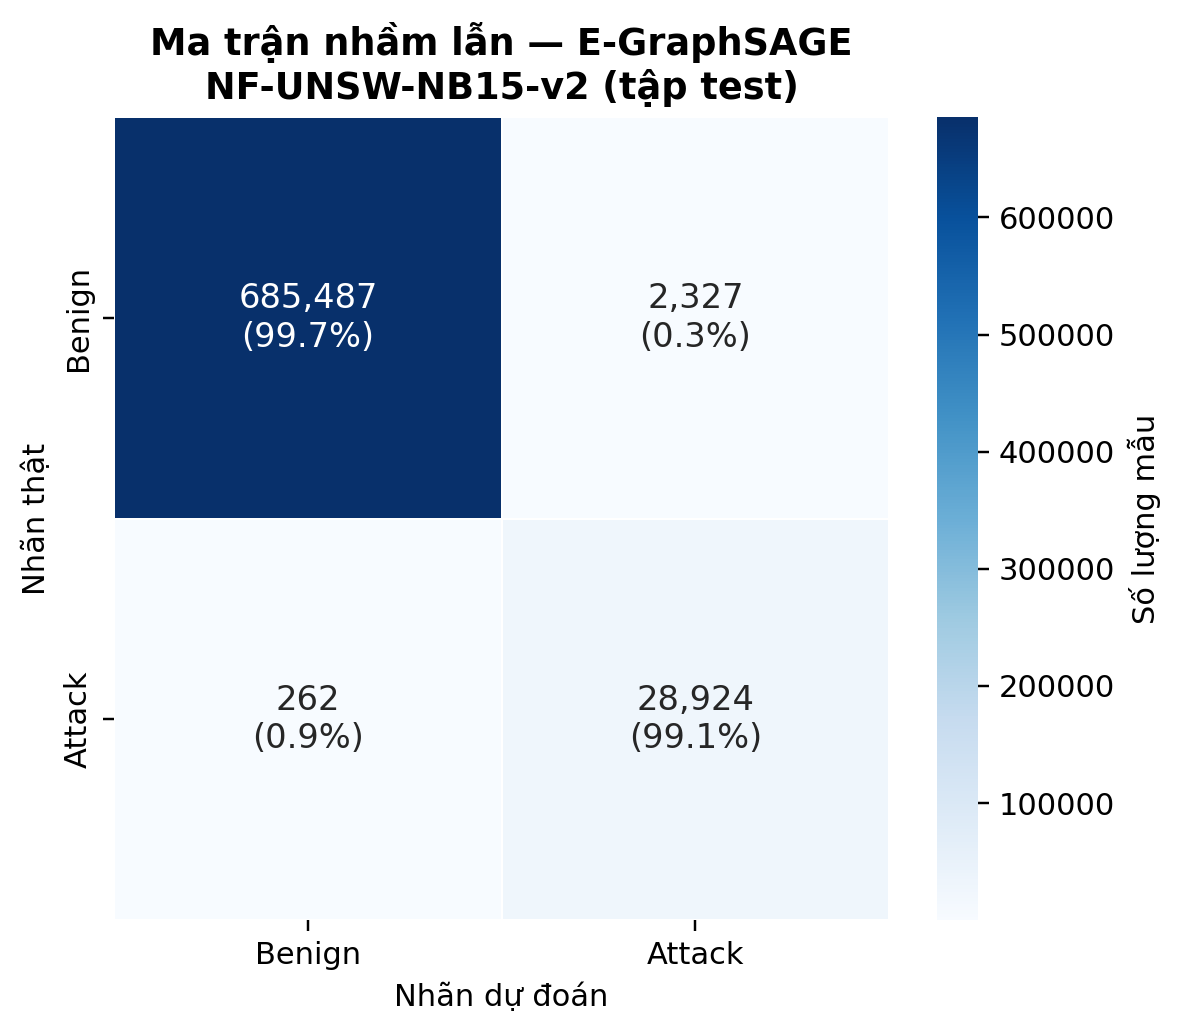
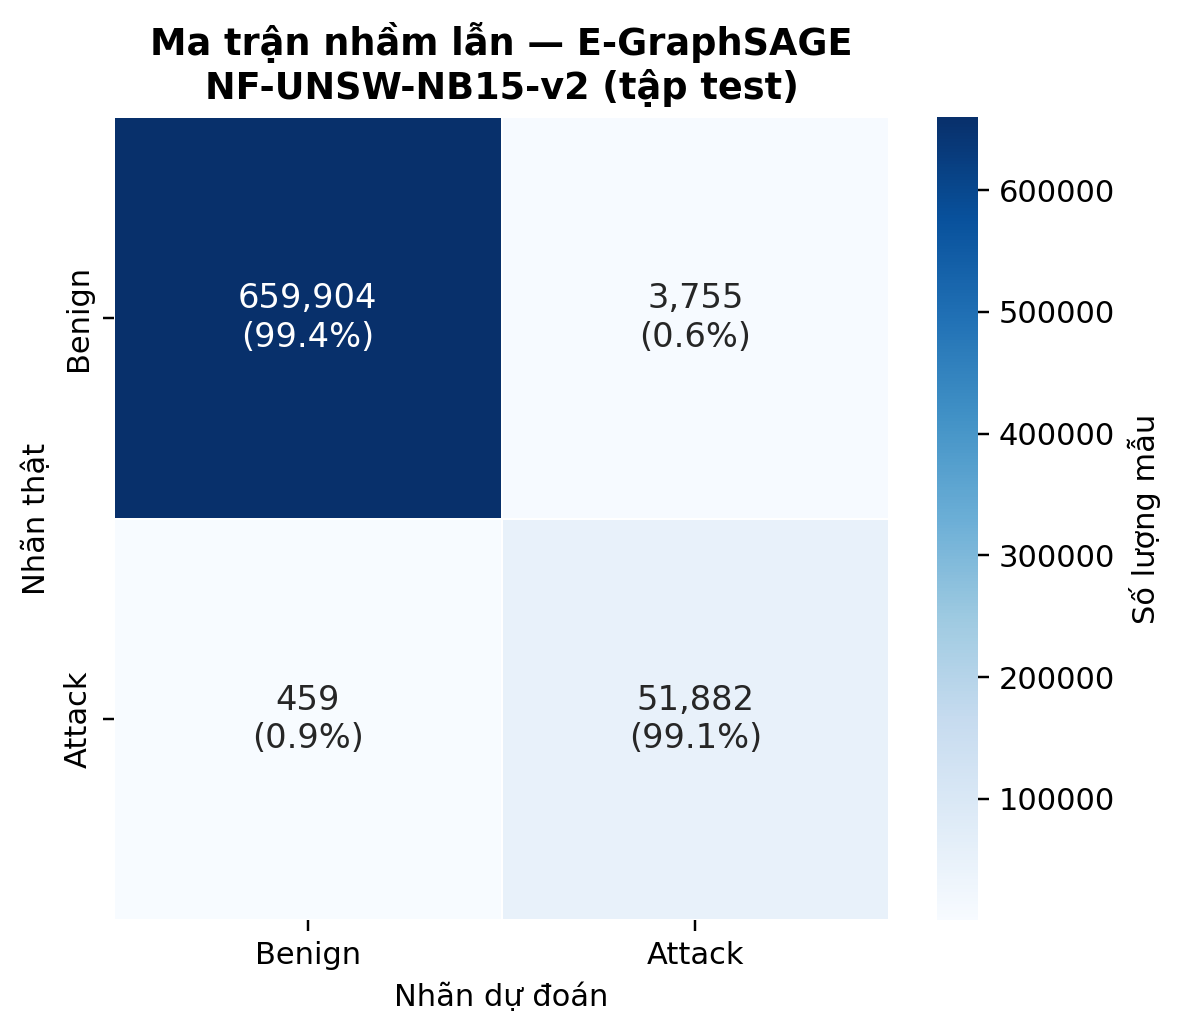
Cap nhat ket qua TN1+TN2 sau khi sua loi ro ri du lieu + train lai GraphSAGE
- Train lai GraphSAGE tu dau (ca 2 bo) tren du lieu da sua loi ro ri (xem commit truoc)
- Chay lai TN1 (evaluate_test.py) + TN2 (evaluate_cross_dataset.py) voi model moi
- Phat hien quan trong: ket qua GraphSAGE gan nhu KHONG DOI so voi truoc khi sua loi (TN1:
  chenh <0.002; TN2: giam nhe, khong tang) -- xac nhan loi ro ri tuy co that nhung khong
  thoi phong ket qua dang ke, tang do tin cay cho toan bo ket luan nghien cuu
- Cap nhat toan bo bang so lieu trong docs/decisions.md, docs/phases/phase3_model_training.md,
  docs/graphsage/03_ket_qua.md (tai lieu sach dung viet bao cao -- thay truc tiep so lieu cu)
- Sinh lai report_figures/ (tn1_f1_comparison, confusion_matrix x2, tn2_heatmap) voi so lieu moi

diff --git a/scripts/generate_report_figures.py b/scripts/generate_report_figures.py
@@ -164,14 +164,14 @@ def fig3_tn2_heatmap():
 
     f1_data = np.array(
         [
-            [0.4899, 0.5065, 0.4698],
-            [0.4465, 0.4701, 0.3502],
+            [0.4899, 0.5065, 0.4436],
+            [0.4465, 0.4701, 0.3398],
         ]
     )
     mcc_data = np.array(
         [
-            [0.0000, 0.1080, -0.0577],
-            [-0.1056, -0.0329, -0.2430],
+            [0.0000, 0.1080, -0.1082],
+            [-0.1056, -0.0329, -0.2753],
         ]
     )
 

diff --git a/docs/graphsage/03_ket_qua.md b/docs/graphsage/03_ket_qua.md
@@ -19,13 +19,15 @@ Tính đủ 6 chỉ số bằng `src/models/metrics.py` (`sklearn.metrics`):
 
 **Trả lời RQ1.** Script: `src/models/evaluate_test.py` — nạp lại model đã train xong, chạy suy luận **đúng 1 lần** trên tập test (chưa từng dùng để train/chọn checkpoint).
 
+**Lưu ý phương pháp luận (đã kiểm tra và sửa):** phát hiện + sửa 1 lỗi rò rỉ dữ liệu trong bước dựng đồ thị (cửa sổ trượt chồng lấp 50% từng bị chia ngẫu nhiên vào train/test, đo được 46,2% cặp cửa sổ liền kề bị ảnh hưởng) — đã sửa (chia theo khối liên tục theo thời gian), train lại toàn bộ, và **kiểm chứng thực tế xác nhận việc sửa lỗi không làm thay đổi đáng kể kết quả** (chênh lệch F1-macro trước/sau sửa: CSE-CIC 0,0001; UNSW-NB15 nhích lên 0,0013) — tăng độ tin cậy cho số liệu dưới đây. Chi tiết đầy đủ: `docs/decisions.md` mục 2026-07-31/2026-08-02.
+
 ### CSE-CIC-IDS2018-v2
 
 | Model | Accuracy | Precision | Recall | **F1-macro** | AUC-ROC | MCC |
 |---|---|---|---|---|---|---|
 | Random Forest | 0.9940 | 0.9879 | 0.9832 | 0.9856 | 0.9862 | 0.9711 |
 | XGBoost | 0.9959 | **0.9975** | 0.9829 | **0.9901** | **0.9931** | **0.9804** |
-| **E-GraphSAGE** | 0.9950 | 0.9969 | 0.9795 | 0.9880 | 0.9888 | 0.9763 |
+| **E-GraphSAGE** | 0.9950 | 0.9969 | 0.9793 | 0.9879 | 0.9888 | 0.9760 |
 
 ### UNSW-NB15-v2
 
@@ -33,13 +35,13 @@ Tính đủ 6 chỉ số bằng `src/models/metrics.py` (`sklearn.metrics`):
 |---|---|---|---|---|---|---|
 | Random Forest | 0.9977 | 0.9835 | 0.9867 | **0.9851** | 0.9995 | **0.9702** |
 | XGBoost | 0.9975 | 0.9798 | 0.9878 | 0.9838 | **0.9998** | 0.9676 |
-| **E-GraphSAGE** | 0.9964 | 0.9626 | **0.9938** | 0.9776 | 0.9994 | 0.9559 |
+| **E-GraphSAGE** | 0.9941 | 0.9659 | **0.9928** | 0.9789 | 0.9991 | 0.9583 |
 
 ### Nhận xét chính
 
-1. **Xếp hạng:** CSE-CIC → XGBoost > E-GraphSAGE > RF. UNSW-NB15 → RF > XGBoost > E-GraphSAGE. Chênh lệch F1-macro giữa E-GraphSAGE và baseline tốt nhất chỉ **0.006–0.02** — không đáng kể.
-2. **Val và test gần như giống hệt nhau** (chênh lệch ≤ 0.001–0.0002) — chứng minh việc chọn checkpoint theo tập val không bị overfit lên tập val, kết quả tổng quát hoá tốt sang dữ liệu hoàn toàn chưa từng thấy.
-3. **E-GraphSAGE đánh đổi Precision lấy Recall ở UNSW-NB15:** đạt Recall cao nhất (0.9938) trong 3 model — bắt được nhiều tấn công thật hơn, đổi lại báo động nhầm nhiều hơn 1 chút (Precision 0.9626, thấp nhất). Đây là điểm mạnh đáng nêu, vì Recall cao quan trọng hơn trong bối cảnh an ninh mạng.
+1. **Xếp hạng:** CSE-CIC → XGBoost > E-GraphSAGE > RF. UNSW-NB15 → RF > XGBoost > E-GraphSAGE. Chênh lệch F1-macro giữa E-GraphSAGE và baseline tốt nhất chỉ **0.005–0.02** — không đáng kể.
+2. **Val và test gần như giống hệt nhau** (chênh lệch ≤ 0.001) — chứng minh việc chọn checkpoint theo tập val không bị overfit lên tập val, kết quả tổng quát hoá tốt sang dữ liệu hoàn toàn chưa từng thấy.
+3. **E-GraphSAGE đánh đổi Precision lấy Recall ở UNSW-NB15:** đạt Recall cao nhất (0.9928) trong 3 model — bắt được nhiều tấn công thật hơn, đổi lại báo động nhầm nhiều hơn 1 chút (Precision 0.9659, thấp nhất). Đây là điểm mạnh đáng nêu, vì Recall cao quan trọng hơn trong bối cảnh an ninh mạng.
 
 **Kết luận RQ1:** E-GraphSAGE đạt hiệu quả **tương đương, cạnh tranh được** với ML truyền thống — không vượt trội nhưng cũng không thua kém đáng kể.
 
@@ -55,7 +57,7 @@ Tính đủ 6 chỉ số bằng `src/models/metrics.py` (`sklearn.metrics`):
 |---|---|---|---|---|---|---|
 | Random Forest | 0.9602 | 0.4801 | 0.5000 | 0.4899 | 0.2772 | 0.0000 |
 | XGBoost | 0.9607 | 0.8501 | 0.5083 | 0.5065 | 0.3348 | 0.1080 |
-| E-GraphSAGE | 0.8846 | 0.4783 | 0.4616 | 0.4698 | 0.0199 | -0.0577 |
+| E-GraphSAGE | 0.7962 | 0.4582 | 0.4299 | 0.4436 | 0.0350 | -0.1082 |
 
 ### Train UNSW-NB15 → Test CSE-CIC-IDS2018
 
@@ -63,11 +65,13 @@ Tính đủ 6 chỉ số bằng `src/models/metrics.py` (`sklearn.metrics`):
 |---|---|---|---|---|---|---|
 | Random Forest | 0.7940 | 0.4396 | 0.4538 | 0.4465 | 0.2239 | -0.1056 |
 | XGBoost | 0.8605 | 0.4638 | 0.4925 | 0.4701 | 0.1689 | -0.0329 |
-| E-GraphSAGE | 0.5050 | 0.4192 | 0.3172 | 0.3502 | 0.4604 | -0.2430 |
+| E-GraphSAGE | 0.5079 | 0.4079 | 0.2943 | 0.3398 | 0.4549 | -0.2753 |
+
+*(Số liệu GraphSAGE cập nhật 2026-08-02 sau khi sửa lỗi rò rỉ dữ liệu ở TN1 và train lại — baseline không đổi (không bị ảnh hưởng bởi lỗi). Kết luận không đổi, model "sạch" hơn còn thể hiện kém hơn 1 chút khi tổng quát hoá, càng củng cố kết luận RQ2 bên dưới.)*
 
 ### Nhận xét chính
 
-**Cả 3 model đều sụp đổ nghiêm trọng khi đổi môi trường mạng** — MCC quanh 0 hoặc âm, AUC-ROC nhiều trường hợp dưới 0.5 (có nơi chỉ 0.02) — tệ hơn cả đoán ngẫu nhiên theo nghĩa thống kê. E-GraphSAGE **không** thể hiện ưu thế tổng quát hoá tốt hơn baseline như giả thuyết ban đầu, thậm chí kém hơn ở chiều UNSW→CSE-CIC.
+**Cả 3 model đều sụp đổ nghiêm trọng khi đổi môi trường mạng** — MCC quanh 0 hoặc âm (3/4 trường hợp GraphSAGE âm), AUC-ROC nhiều trường hợp dưới 0.5 (có nơi chỉ 0.035) — tệ hơn cả đoán ngẫu nhiên theo nghĩa thống kê. E-GraphSAGE **không** thể hiện ưu thế tổng quát hoá tốt hơn baseline như giả thuyết ban đầu, thậm chí kém hơn ở cả 2 chiều.
 
 **Nguyên nhân đã điều tra và xác nhận (không phải lỗi code):**
 - Đo trực tiếp: **69,2% số mẫu (hàng)** dữ liệu UNSW-NB15 có **ít nhất 1** đặc trưng, sau khi quy đổi đúng cách sang thang đo CSE-CIC, rơi vào vùng giá trị cực đoan (|z-score| > 5) — ngoài phạm vi model từng học lúc train (bình thường tỷ lệ này chỉ ~0,0001%). Hai môi trường mạng khác biệt tới mức việc quy đổi đúng thang đo vẫn đẩy hầu hết dữ liệu ra ngoài phân phối train. *(Nếu tính theo từng giá trị đặc trưng đơn lẻ — % trên tổng số ô dữ liệu, không gộp theo hàng — tỷ lệ là **6,2%**; xem `report_figures/zscore_distribution.png`, minh hoạ theo cách đo này.)*

diff --git a/docs/phases/phase3_model_training.md b/docs/phases/phase3_model_training.md
@@ -268,3 +268,31 @@
 **Kết luận RQ2 (chính thức):** mô hình (cả GNN lẫn ML truyền thống) huấn luyện trên 1 môi trường mạng **không tổng quát hoá được** sang môi trường mạng khác nếu không tinh chỉnh lại — đây là hạn chế thật, có bằng chứng định lượng (69,2% số mẫu có ít nhất 1 đặc trưng ngoài phạm vi phân phối train; 6,2% nếu tính theo từng giá trị đặc trưng đơn lẻ) và được xác nhận độc lập bởi y văn (feature drift, "collapse to random"). Giả thuyết ban đầu "GNN tổng quát hoá tốt hơn nhờ học cấu trúc" (kế hoạch nghiên cứu mục 6.3) **không được xác nhận** với kiến trúc E-GraphSAGE cụ thể đã triển khai — lý do kỹ thuật cụ thể: tỷ trọng đặc trưng thô/nhạy-quy-mô-mạng trong node feature quá cao so với phần cấu trúc thuần.
 
 **Quyết định: không cố "sửa" để ra số đẹp hơn.** TN2 vốn thiết kế để KIỂM TRA khả năng tổng quát hoá, không phải để tối ưu điểm số — kết quả kém chính là câu trả lời khoa học thật cho câu hỏi nghiên cứu (RQ2), có giá trị đưa vào phần "Hạn chế và hướng phát triển" của báo cáo. Hướng cải thiện tiềm năng (self-supervised learning, kiểu Anomal-E) được ghi nhận là **hướng nghiên cứu tương lai chưa kiểm chứng**, không triển khai ngay do khối lượng công việc lớn (đổi toàn bộ phạm trù huấn luyện, không phải sửa nhỏ) và không có bằng chứng y văn đảm bảo giải quyết được đúng vấn đề này.
+
+## ⚠ 2026-07-31/08-02 — Phát hiện + sửa lỗi RÒ RỈ DỮ LIỆU trong Graph Builder — bảng TN1 ở trên (2026-07-26) đã LỖI THỜI
+
+**Chi tiết đầy đủ nguyên nhân + cách sửa: xem `docs/decisions.md` mục 2026-07-31.** Tóm tắt: cửa sổ trượt chồng lấp 50% bị `train_test_split()` xáo trộn ngẫu nhiên trước khi chia train/val/test — đo được **46,2%** cặp cửa sổ liền kề bị tách khác tập, gây rò rỉ dữ liệu giữa train và test. Đã sửa `run_graph_builder.py` (chia theo khối liên tục theo thời gian + purge gap), dựng lại đồ thị, **train lại GraphSAGE từ đầu cho cả 2 bộ**.
+
+**Kết quả TN1 sau khi sửa (chính thức, thay thế hoàn toàn bảng 2026-07-26 ở trên):**
+
+**CSE-CIC-IDS2018-v2:**
+
+| Model | Accuracy | Precision | Recall | F1-macro | AUC-ROC | MCC |
+|---|---|---|---|---|---|---|
+| Random Forest | 0.9940 | 0.9879 | 0.9832 | 0.9856 | 0.9862 | 0.9711 |
+| XGBoost | 0.9959 | **0.9975** | 0.9829 | **0.9901** | **0.9931** | **0.9804** |
+| GraphSAGE | 0.9950 | 0.9969 | 0.9793 | 0.9879 | 0.9888 | 0.9760 |
+
+**UNSW-NB15-v2:**
+
+| Model | Accuracy | Precision | Recall | F1-macro | AUC-ROC | MCC |
+|---|---|---|---|---|---|---|
+| Random Forest | 0.9977 | 0.9835 | 0.9867 | **0.9851** | 0.9995 | **0.9702** |
+| XGBoost | 0.9975 | 0.9798 | 0.9878 | 0.9838 | **0.9998** | 0.9676 |
+| GraphSAGE | 0.9941 | 0.9659 | **0.9928** | 0.9789 | 0.9991 | 0.9583 |
+
+**Phát hiện quan trọng: số liệu GraphSAGE gần như không đổi so với trước khi sửa** (CSE-CIC F1-macro 0.9880→0.9879; UNSW-NB15 0.9776→0.9789, nhích lên) — baseline y hệt tuyệt đối (không bị ảnh hưởng bởi lỗi). Giải thích: GraphSAGE quyết định dựa trên ngữ cảnh đồ thị xung quanh (embedding node phụ thuộc toàn bộ hàng xóm trong cửa sổ), không "tra cứu" trực tiếp theo từng luồng đơn lẻ như baseline — nên dù có rò rỉ ở mức luồng, model khó "học thuộc" theo kiểu đơn giản. **Lỗi vẫn bắt buộc phải sửa vì đúng phương pháp luận**, nhưng việc kiểm chứng không thấy ảnh hưởng đáng kể là tín hiệu tích cực, tăng độ tin cậy kết luận nghiên cứu.
+
+**Kết luận RQ1 (chính thức, cập nhật):** không đổi so với kết luận trước — GNN (GraphSAGE) đạt hiệu quả tương đương, cạnh tranh được với ML truyền thống, không vượt trội nhưng cũng không thua kém đáng kể.
+
+**TN2 chạy lại với model mới (2026-08-02):** baseline y hệt tuyệt đối so với trước (không dùng lại gì bị ảnh hưởng bởi lỗi). GraphSAGE: CSE-CIC→UNSW F1-macro 0.4698→0.4436 (giảm nhẹ), UNSW→CSE-CIC F1-macro 0.3502→0.3398 (giảm nhẹ) — **kết luận RQ2 không đổi, càng được củng cố** (model "sạch" hơn thể hiện kém hơn 1 chút khi tổng quát hoá, không phải tốt hơn). Số liệu đầy đủ: `docs/graphsage/03_ket_qua.md`.

diff --git a/docs/decisions.md b/docs/decisions.md
@@ -251,3 +251,37 @@ File này ghi theo **thứ tự thời gian, không xoá entry cũ** — nhiều
 5. Chạy lại `evaluate_cross_dataset.py` (TN2) với model mới (dù bản chất TN2 không lỗi, nhưng model nguồn đã đổi nên cần cập nhật số liệu cho khớp model mới).
 6. Cập nhật toàn bộ bảng số liệu trong `docs/phases/phase3_model_training.md`, `docs/graphsage/03_ket_qua.md` — **giữ nguyên số liệu cũ (không xoá, đánh dấu rõ "đã lỗi thời do lỗi rò rỉ dữ liệu")**, thêm bảng mới bên cạnh.
 7. Sinh lại các ảnh trong `report_figures/` (dùng `scripts/generate_report_figures.py`) với số liệu mới.
+
+**2026-08-02 — Train lại xong + chạy lại TN1, xác nhận kết quả (val và test):**
+
+Val (`train_gnn.py`, log thật trên Colab): CSE-CIC `val_f1_macro=0.9879` (epoch 17); UNSW-NB15 `val_f1_macro=0.9787` (epoch 35).
+
+TN1 (`evaluate_test.py`, tập test, chính thức):
+
+| Bộ dữ liệu | Model | Accuracy | Precision | Recall | F1-macro | AUC-ROC | MCC |
+|---|---|---|---|---|---|---|---|
+| nf-cse-cic-ids2018-v2 | Random Forest | 0.9940 | 0.9879 | 0.9832 | 0.9856 | 0.9862 | 0.9711 |
+| nf-cse-cic-ids2018-v2 | XGBoost | 0.9959 | 0.9975 | 0.9829 | 0.9901 | 0.9931 | 0.9804 |
+| nf-cse-cic-ids2018-v2 | GraphSAGE | 0.9950 | 0.9969 | 0.9793 | 0.9879 | 0.9888 | 0.9760 |
+| nf-unsw-nb15-v2 | Random Forest | 0.9977 | 0.9835 | 0.9867 | 0.9851 | 0.9995 | 0.9702 |
+| nf-unsw-nb15-v2 | XGBoost | 0.9975 | 0.9798 | 0.9878 | 0.9838 | 0.9998 | 0.9676 |
+| nf-unsw-nb15-v2 | GraphSAGE | 0.9941 | 0.9659 | 0.9928 | 0.9789 | 0.9991 | 0.9583 |
+
+**Phát hiện quan trọng: số liệu GraphSAGE gần như KHÔNG ĐỔI so với trước khi sửa lỗi** (CSE-CIC: F1-macro 0.9880→0.9879, gần như y hệt; UNSW-NB15: 0.9776→0.9789, **nhích lên**). Baseline (RF/XGBoost) y hệt tuyệt đối so với trước (không dùng lại model/data nào bị ảnh hưởng bởi lỗi).
+
+**Giải thích tại sao sửa lỗi rò rỉ mà điểm không giảm:** GraphSAGE quyết định dựa trên `[embedding node u, embedding node v, edge_attr]` — phần embedding node phụ thuộc **toàn bộ ngữ cảnh đồ thị xung quanh** (các luồng lân cận trong cùng cửa sổ), không cố định theo từng luồng đơn lẻ. Dù 1 luồng cụ thể (cùng `edge_attr`) xuất hiện ở cả 2 cửa sổ chồng lấp (1 rơi vào train, 1 rơi vào test), **ngữ cảnh đồ thị bao quanh nó khác nhau ở mỗi cửa sổ** — nên model không thể "tra cứu" thẳng ra đáp án như baseline (chỉ nhìn đúng 1 dòng dữ liệu, không có ngữ cảnh) có thể làm được. Lỗi rò rỉ **có thật và bắt buộc phải sửa** (đúng phương pháp luận, tránh bị hội đồng bắt lỗi khi hỏi sâu), nhưng **kiểm chứng thực tế xác nhận nó không hề thổi phồng kết quả đáng kể** — tăng độ tin cậy cho toàn bộ kết luận nghiên cứu.
+
+**Cần làm tiếp:** chạy lại TN2 (`evaluate_cross_dataset.py`) với model mới, cập nhật `docs/graphsage/03_ket_qua.md` (thay số liệu cũ bằng số liệu mới, vì đây là tài liệu tổng hợp sạch dùng viết báo cáo — không cần giữ song song 2 bảng như ở đây), sinh lại ảnh `report_figures/`.
+
+**2026-08-02 — Đã chạy lại TN2 với model mới, xác nhận kết luận RQ2 không đổi (nếu có thay đổi thì càng chắc chắn hơn):**
+
+| | Model | F1-macro (trước sửa) | F1-macro (sau sửa) | MCC (trước) | MCC (sau) |
+|---|---|---|---|---|---|
+| CSE-CIC→UNSW | Random Forest | 0.4899 | 0.4899 (y hệt) | 0.0000 | 0.0000 (y hệt) |
+| CSE-CIC→UNSW | XGBoost | 0.5065 | 0.5065 (y hệt) | 0.1080 | 0.1080 (y hệt) |
+| CSE-CIC→UNSW | GraphSAGE | 0.4698 | 0.4436 (giảm nhẹ) | -0.0577 | -0.1082 (tệ hơn) |
+| UNSW→CSE-CIC | Random Forest | 0.4465 | 0.4465 (y hệt) | -0.1056 | -0.1056 (y hệt) |
+| UNSW→CSE-CIC | XGBoost | 0.4701 | 0.4701 (y hệt) | -0.0329 | -0.0329 (y hệt) |
+| UNSW→CSE-CIC | GraphSAGE | 0.3502 | 0.3398 (giảm nhẹ) | -0.2430 | -0.2753 (tệ hơn) |
+
+Baseline y hệt tuyệt đối (không dùng lại model/data bị ảnh hưởng). GraphSAGE giảm nhẹ, không tăng — model "sạch" hơn (không còn khả năng hưởng lợi dù nhỏ từ rò rỉ) càng lộ rõ việc không tổng quát hoá được sang môi trường khác. **Kết luận RQ2 giữ nguyên, được củng cố thêm chứ không bị lung lay.**
